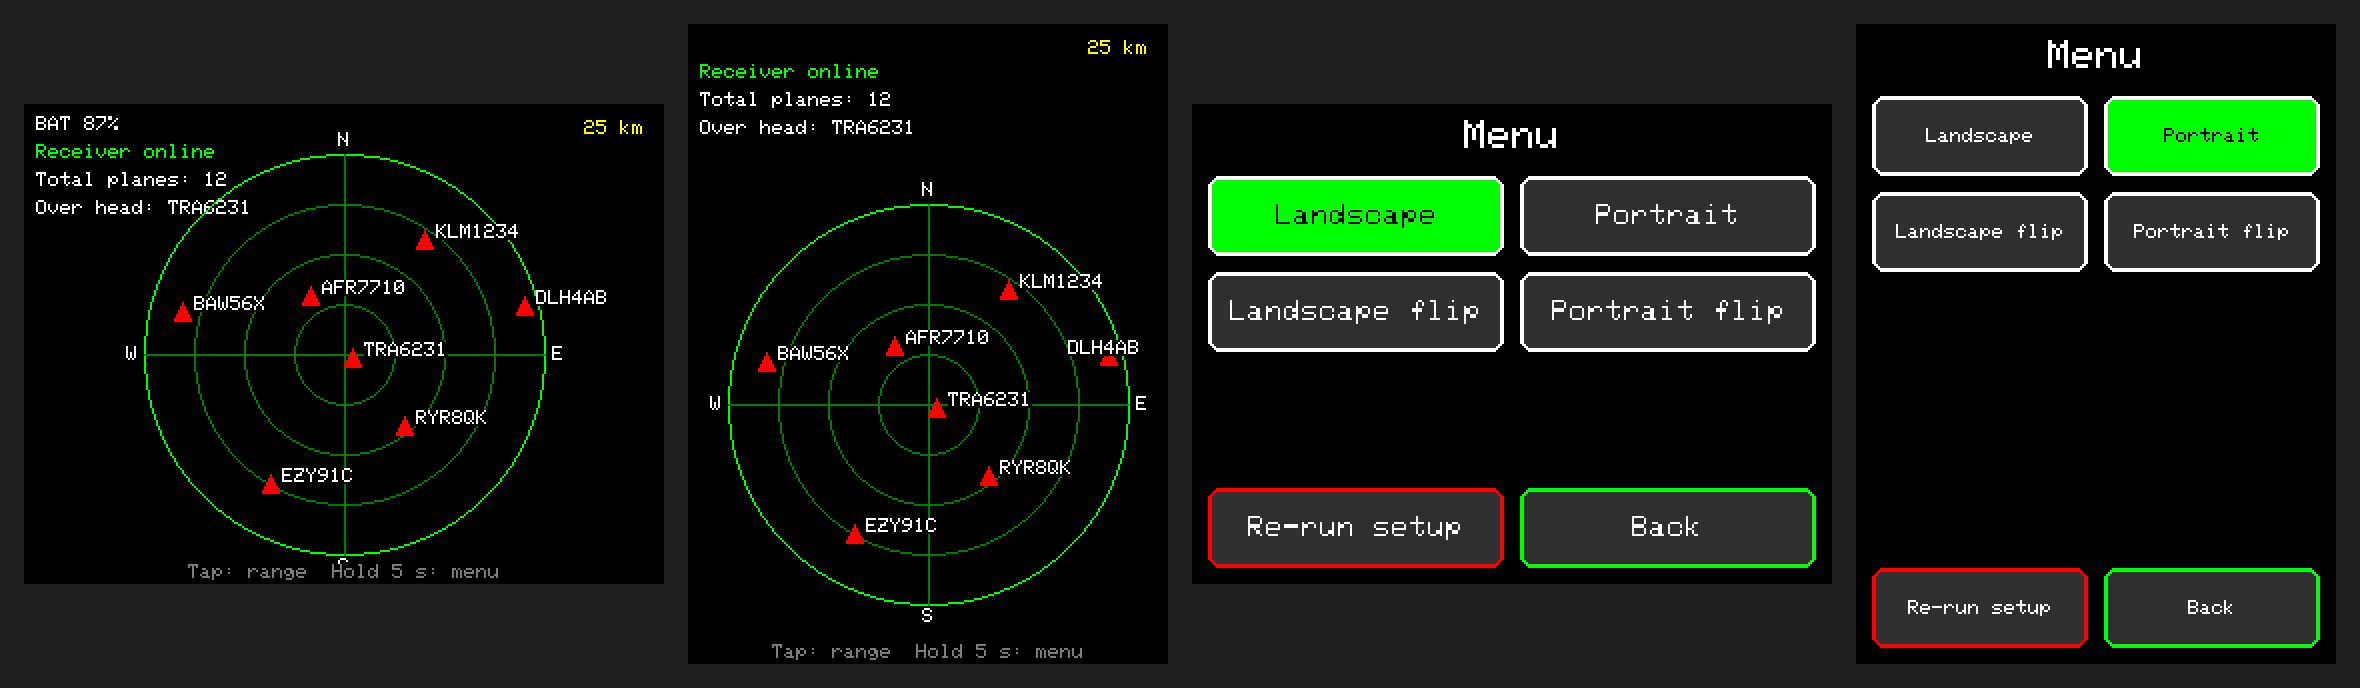
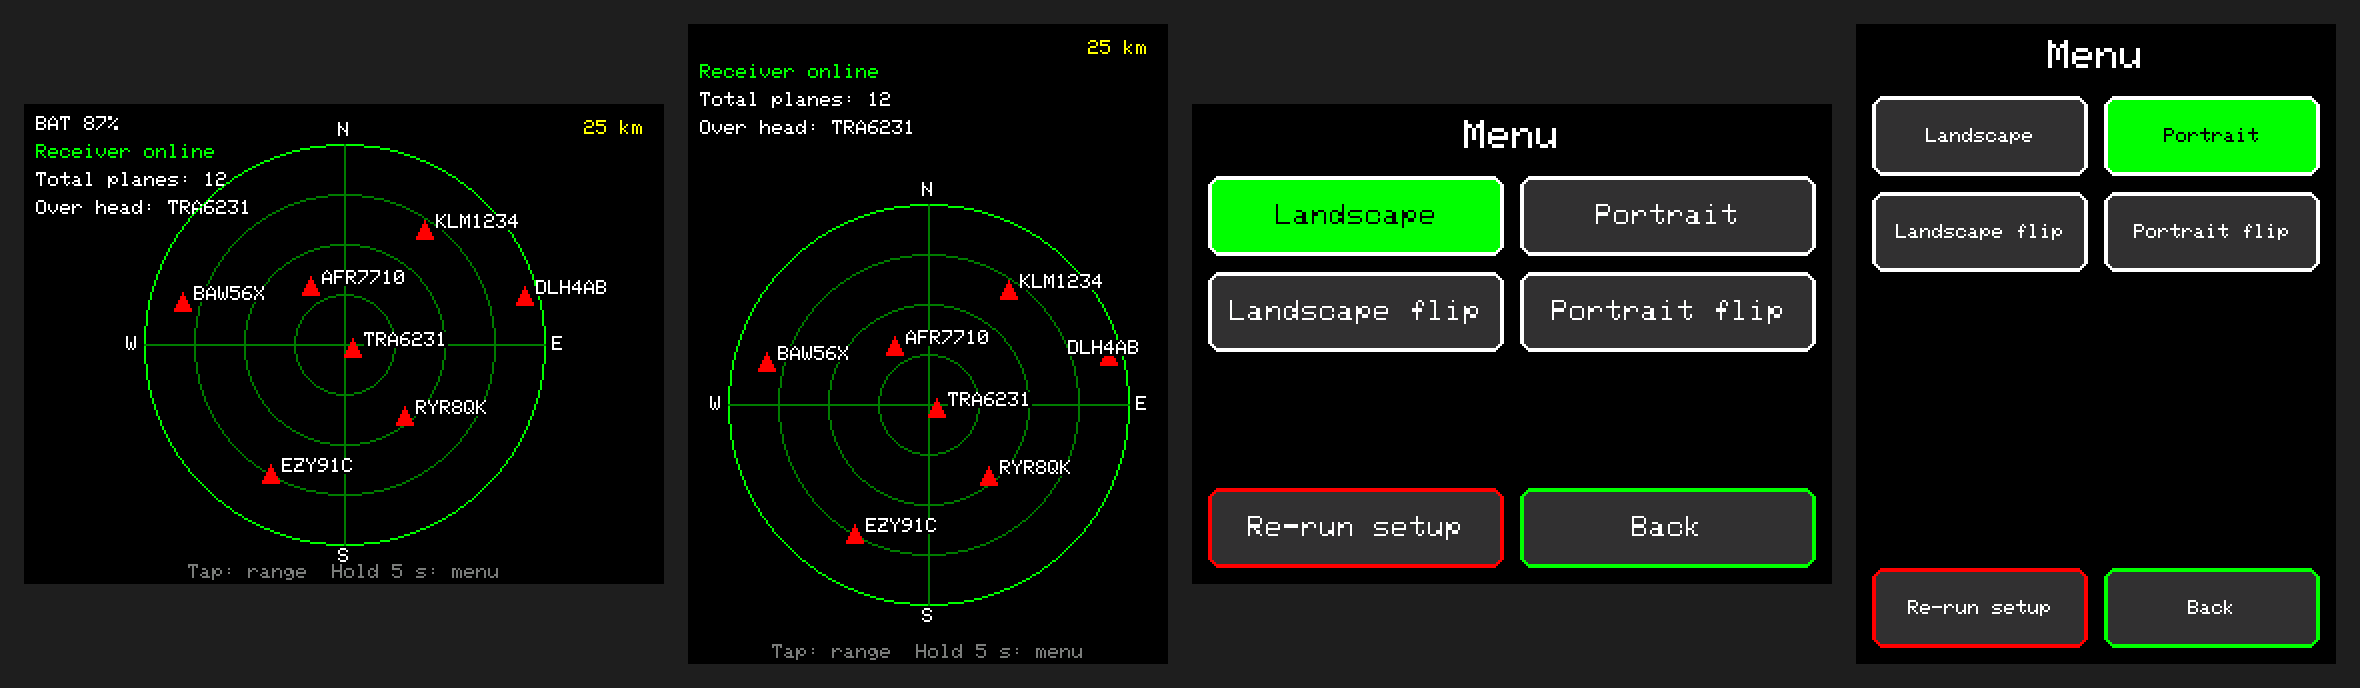
Fix S label hidden by hint in landscape (circle 5 px higher)

diff --git a/tools/render_mockups.py b/tools/render_mockups.py
@@ -171,7 +171,7 @@ SAMPLE = {
 
 
 def draw_shell(s, battery, data):
-    cx, cy = s.w // 2, (125 if s.w > s.h else 190)
+    cx, cy = s.w // 2, (120 if s.w > s.h else 190)
     s.datum, s.size = "top_left", 1
     line = 6
     if battery is not None and battery >= 0:
@@ -206,7 +206,7 @@ def draw_shell(s, battery, data):
 def draw_aircraft(s, bearing, distance, label, range_km):
     if distance > range_km:
         return
-    cx, cy = s.w // 2, (125 if s.w > s.h else 190)
+    cx, cy = s.w // 2, (120 if s.w > s.h else 190)
     a = math.radians(bearing - 90.0)
     r = distance / range_km * RADIUS
     x, y = cx + int(math.cos(a) * r), cy + int(math.sin(a) * r)

diff --git a/src/radar.cpp b/src/radar.cpp
@@ -24,7 +24,7 @@ Layout layout() {
   l.w = hal::width();
   l.h = hal::height();
   l.cx = l.w / 2;
-  l.cy = l.w > l.h ? 125 : 190;
+  l.cy = l.w > l.h ? 120 : 190;
   return l;
 }
 

diff --git a/docs/SPEC.md b/docs/SPEC.md
@@ -19,7 +19,7 @@ PlatformIO, `espressif32` platform, framework arduino. Libraries: ArduinoJson ^7
 - `geo` — haversine/bearing (moved verbatim).
 - `config` — NVS (namespace `planeradar`, same keys as original: ssid, pass, receiver, lat, lon), setup AP `PlaneRadar-Setup`, 192.168.4.1 form. Fix: HTML-escape nothing needed but validate lat/lon ranges and non-empty fields; keep behaviour.
 - `radar` — fetch + render. Fix vs original: draw each plane once (original draws twice, the first pass is erased by `drawRadarShell`); render into an off-screen sprite or at least avoid full-screen flicker where RAM allows (320x240x16bit = 150 KB; CYD without PSRAM may not fit — use fillScreen-less partial redraw of the radar area, or fall back to direct draw). Keep it simple: direct draw, no sprite, acceptable.
-- Landscape layout is identical to the original (CX=160, CY=125, R=100). Portrait (240x320): R=100, CX=W/2, CY=190; header, range label, N/S/W/E and hint positions derive from the same `Layout` struct (width/height), never hardcoded 320/240. Battery line is omitted when `batteryPercent()==-1`.
+- Landscape layout follows the original (CX=160, CY=120, R=100; the circle sits 5 px higher so the S label is not hidden by the hint). Portrait (240x320): R=100, CX=W/2, CY=190; header, range label, N/S/W/E and hint positions derive from the same `Layout` struct (width/height), never hardcoded 320/240. Battery line is omitted when `batteryPercent()==-1`.
 - Touch: CYD uses XPT2046 via LovyanGFX `getTouch`; Core2 via `M5.Touch.getCount()`. Gesture logic (tap vs 5 s hold) in main.cpp using `hal::touchDown()`; coordinates (`touchPoint`) are only used by the menu.
 
 ## Menu and orientation
